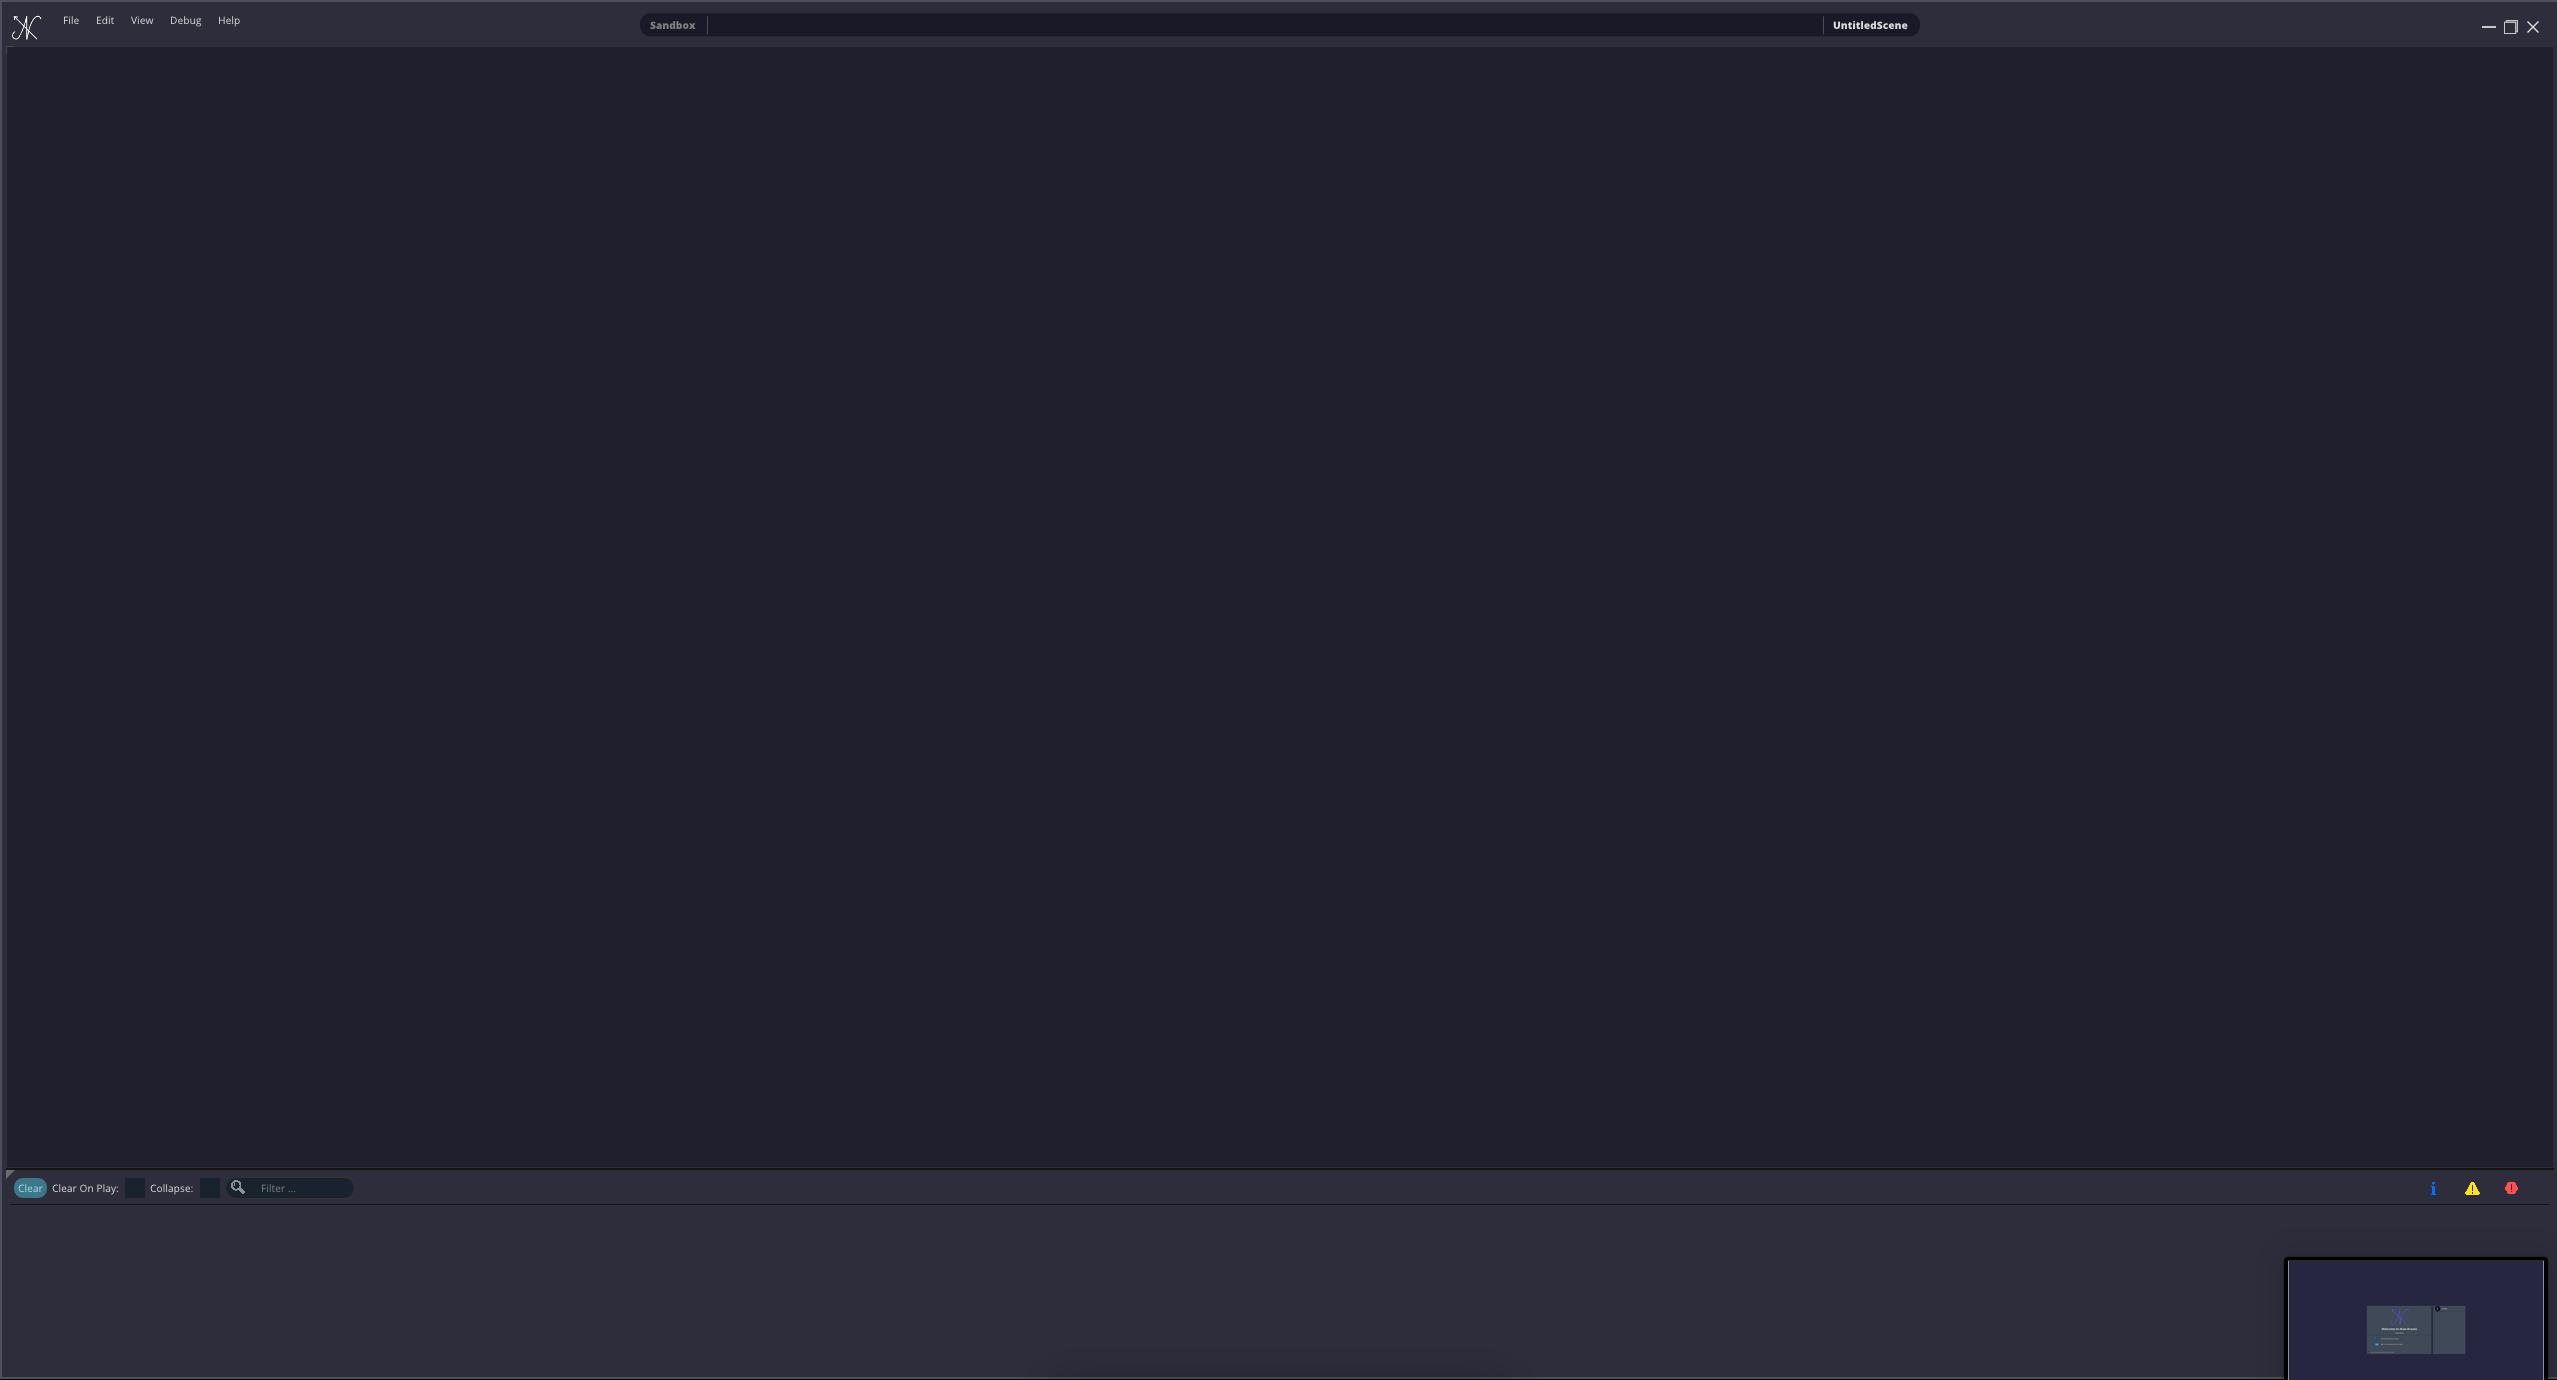
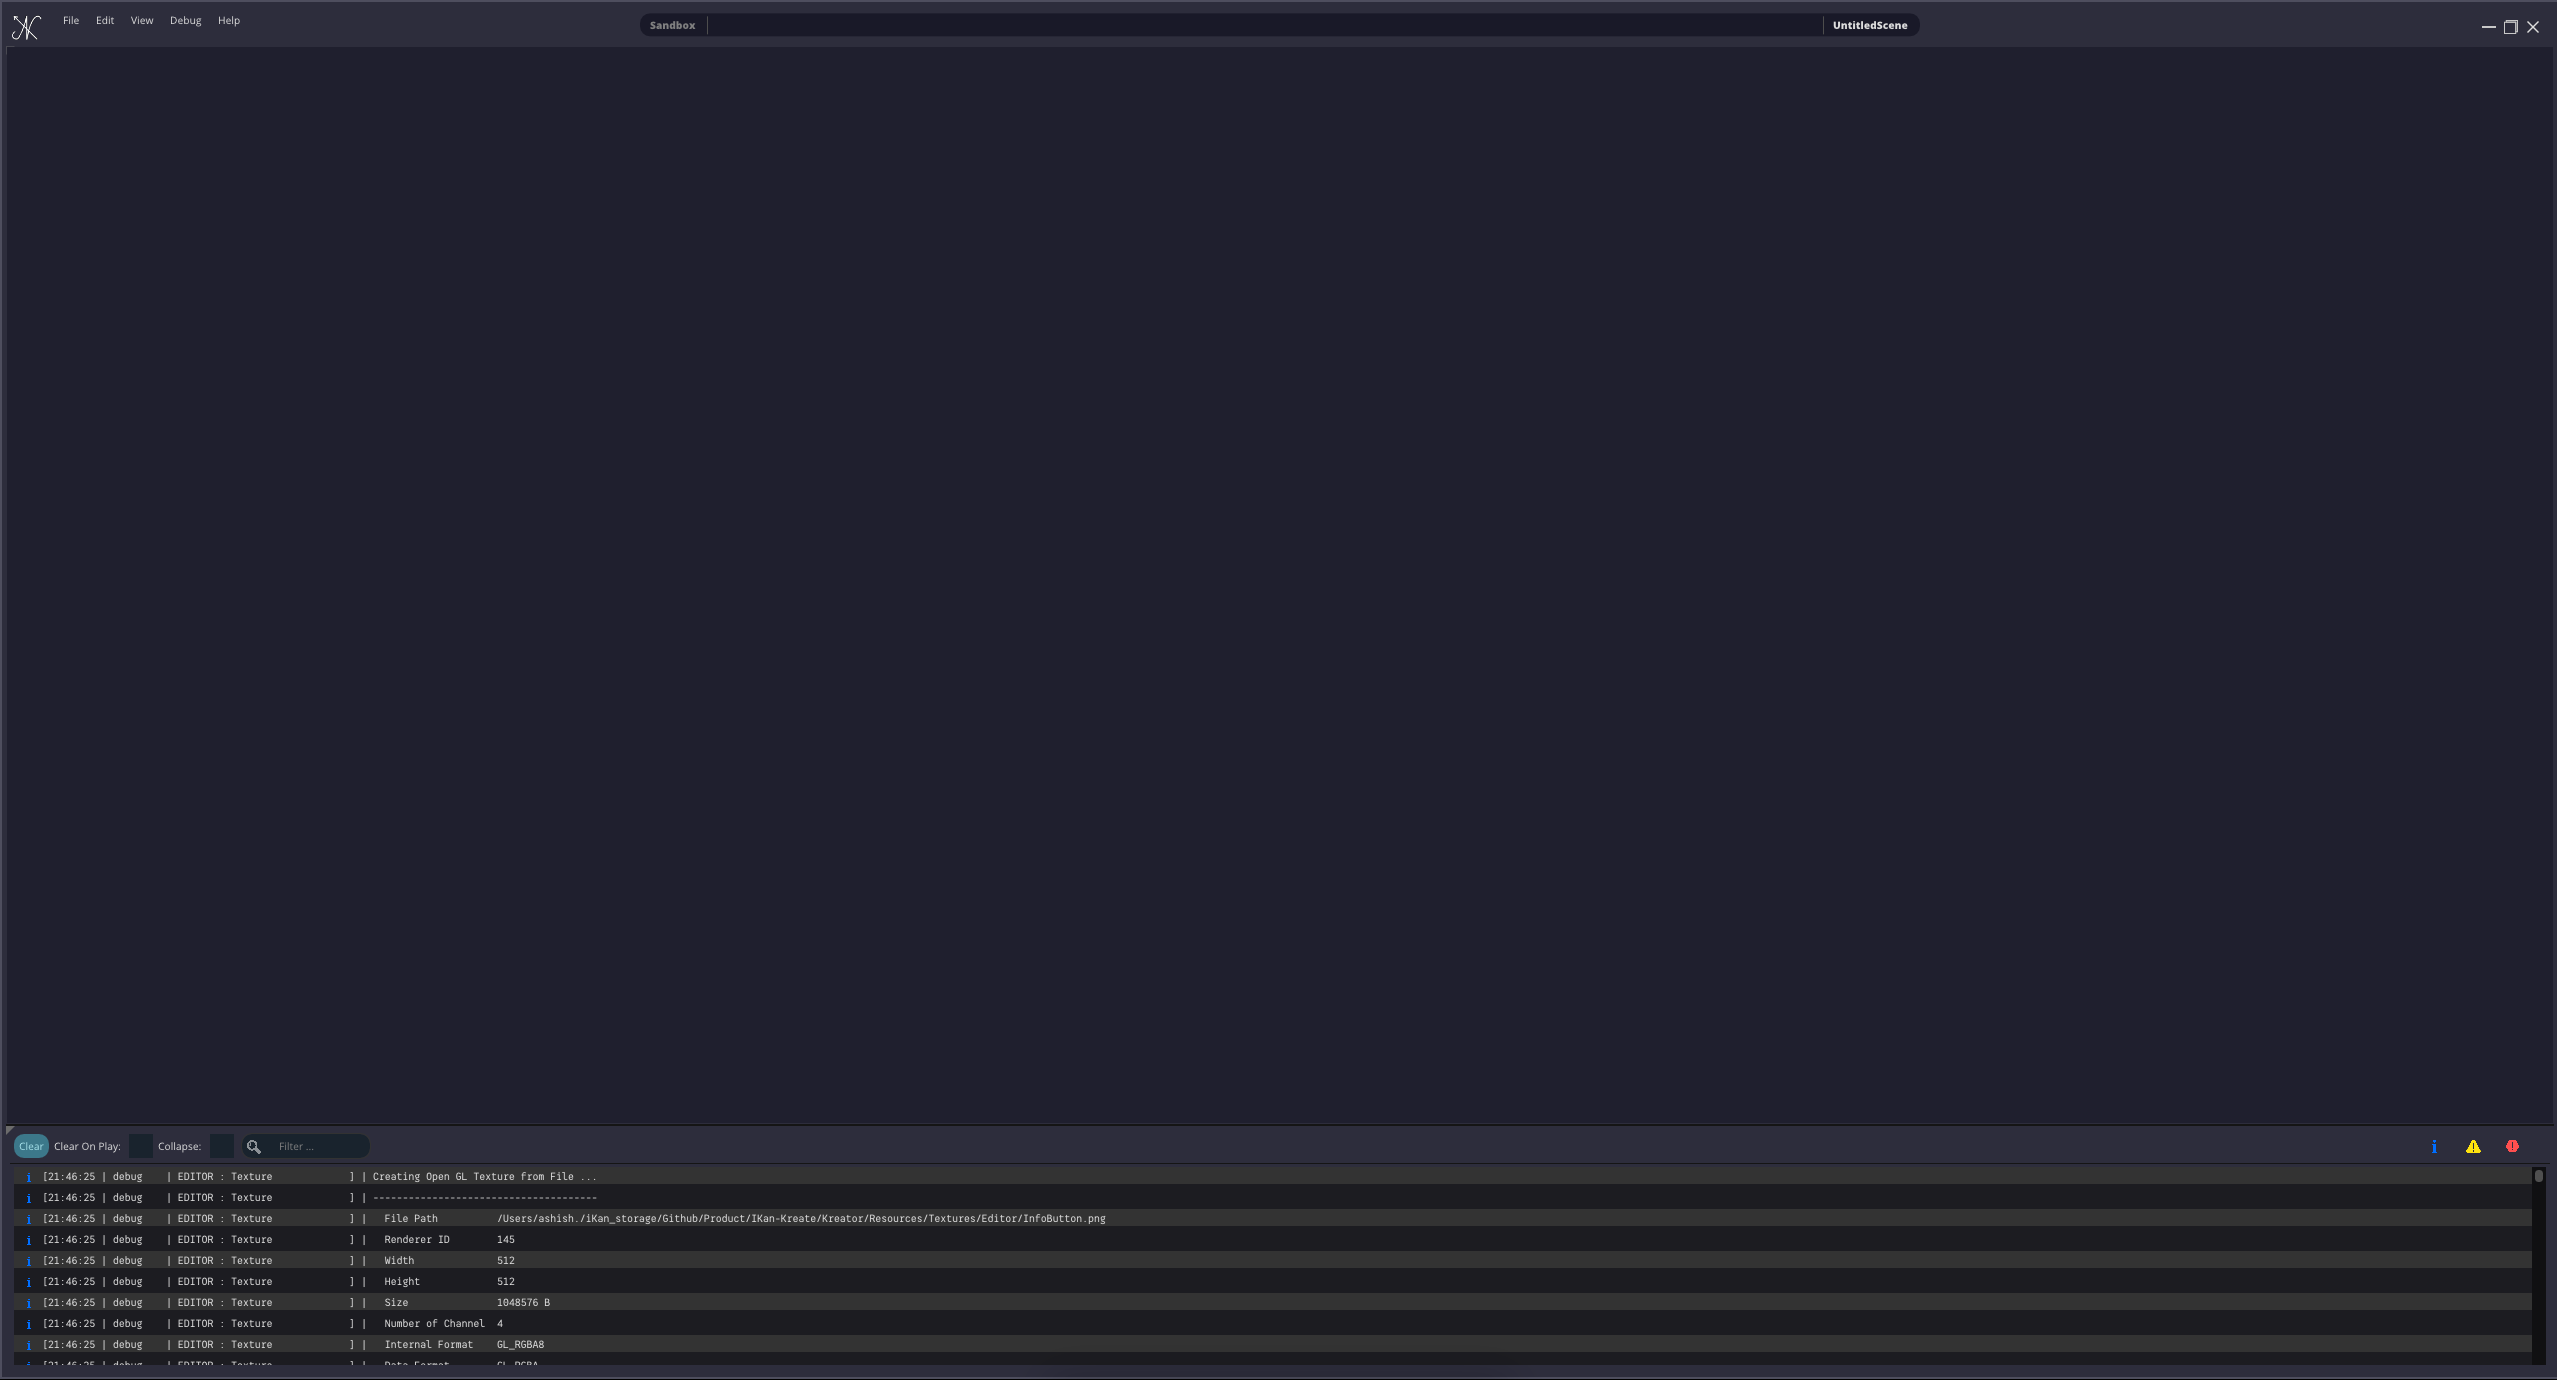
Completing Editor Console panel

Changed region(s): [[0.0, 0.8101, 1.0, 1.0]]

diff --git a/Kreator/Kreator/Panles/KreatorConsolePanel.cpp b/Kreator/Kreator/Panles/KreatorConsolePanel.cpp
@@ -39,11 +39,11 @@ namespace Kreator
     ImVec4 warningButtonTint = (m_messageFilters & (int16_t)ConsoleMessage::Category::Warning) ? s_warningButtonOnTint : s_noTint;
     ImVec4 errorButtonTint = (m_messageFilters & (int16_t)ConsoleMessage::Category::Error) ? s_errorButtonOnTint : s_noTint;
 
-    ImGui::PushStyleVar(ImGuiStyleVar_ItemSpacing, ImVec2(6, 5));
-    ImGui::PushStyleVar(ImGuiStyleVar_ItemInnerSpacing, ImVec2(5, 3));
-    ImGui::PushStyleColor(ImGuiCol_Button, ImVec4(0, 0, 0, 0));
-    ImGui::PushStyleColor(ImGuiCol_ButtonHovered, ImVec4(0.3f, 0.3f, 0.3f, 1.0f));
-    ImGui::PushStyleColor(ImGuiCol_ButtonActive, ImVec4(0, 0, 0, 0));
+    UI::ScopedColor button(ImGuiCol_Button, ImVec4(0, 0, 0, 0));
+    UI::ScopedColor buttonhovered(ImGuiCol_ButtonHovered, ImVec4(0.3f, 0.3f, 0.3f, 1.0f));
+    UI::ScopedColor buttonActive(ImGuiCol_ButtonActive, ImVec4(0, 0, 0, 0));
+
+    UI::ScopedStyle framePadding(ImGuiStyleVar_FramePadding, ImVec2(5, 5));
 
     if (UI::DrawRoundButton("Clear", Kreator_UI::ColorVec3FromU32(Kreator_UI::Color::NiceBlue), 10))
     {
@@ -88,12 +88,110 @@ namespace Kreator
     {
       m_messageFilters ^= (int16_t)ConsoleMessage::Category::Error;
     }
-
-    ImGui::PopStyleColor(3);
-    ImGui::PopStyleVar(2);
   }
   
   void KreatorConsolePanel::RenderConsole()
   {
+    UI::ScopedFont logFont(Kreator_UI::GetFixedWidthFont());
+    ImGui::BeginChild("LogMessages");
+
+    if (m_messageBufferBegin == 0)
+    {
+      m_displayMessageInspector = false;
+      m_selectedMessage = nullptr;
+    }
+    
+    if (ImGui::IsMouseClicked(ImGuiMouseButton_Left) and !m_isMessageInspectorHovered)
+    {
+      m_displayMessageInspector = false;
+      m_selectedMessage = nullptr;
+    }
+
+    for (uint32_t i = 0; i < m_messageBufferBegin; i++)
+    {
+      const auto& msg = m_messageBuffer[i];
+      // Copying to replace the content ...
+      std::string messageText = msg.GetMessage();
+      
+      // If search result passes
+      if (s_searchFilter.PassFilter(messageText.c_str()))
+      {
+        if (m_messageFilters & (int16_t)msg.GetCategory())
+        {
+          UI::ScopedStyle windowPadding(ImGuiStyleVar_WindowPadding, ImVec2(10, 5));
+          // Alternate color
+          if (i % 2 == 0)
+          {
+            ImGui::PushStyleColor(ImGuiCol_ChildBg, ImVec4(ImVec4(0.20f, 0.20f, 0.20f, 1.0f)));
+          }
+
+          ImGui::BeginChild(i + 1, ImVec2(0, ImGui::GetFontSize() * 1.75F), false,
+                            ImGuiWindowFlags_NoScrollWithMouse | ImGuiWindowFlags_NoScrollbar
+                            | ImGuiWindowFlags_AlwaysUseWindowPadding);
+          
+
+          // Selec the message to popout
+          if (ImGui::IsWindowHovered() and ImGui::IsMouseClicked(ImGuiMouseButton_Left))
+          {
+            m_selectedMessage = &m_messageBuffer[i];
+            m_displayMessageInspector = true;
+          }
+
+          // Right click popup
+          if (ImGui::BeginPopupContextWindow())
+          {
+            if (ImGui::MenuItem("Copy"))
+            {
+              ImGui::SetClipboardText(messageText.c_str());
+            }
+            ImGui::EndPopup();
+          }
+
+          // Render Icons
+          ImGuiContext& g = *GImGui;
+          auto size = g.FontSize;
+          if (msg.GetCategory() == ConsoleMessage::Category::Info)
+          {
+            UI::Image(m_infoButtonTex, ImVec2(size, size), ImVec2(0, 0), ImVec2(1, 1), s_infoButtonOnTint);
+          }
+          else if (msg.GetCategory() == ConsoleMessage::Category::Warning)
+          {
+            UI::Image(m_warningButtonTex, ImVec2(size, size), ImVec2(0, 0), ImVec2(1, 1), s_warningButtonOnTint);
+          }
+          else if (msg.GetCategory() == ConsoleMessage::Category::Error)
+          {
+            UI::Image(m_errorButtonTex, ImVec2(size, size), ImVec2(0, 0), ImVec2(1, 1), s_errorButtonOnTint);
+          }
+          
+          ImGui::SameLine();
+          // Add ... after 200 characters
+          if (messageText.length() > 200)
+          {
+            size_t spacePos = messageText.find_first_of(' ', 200);
+            if (spacePos != std::string::npos)
+            {
+              messageText.replace(spacePos, messageText.length() - 1, "...");
+            }
+          }
+          // Print Message
+          ImGui::TextUnformatted(messageText.c_str());
+          
+          if (m_collapseMessages and msg.GetCount() > 1)
+          {
+            ImGui::SameLine(ImGui::GetWindowWidth() - 30);
+            ImGui::Text("%d", msg.GetCount());
+          }
+
+          ImGui::EndChild();
+
+          // Pop Alternate color
+          if (i % 2 == 0)
+          {
+            ImGui::PopStyleColor();
+          }
+        }
+      }
+    }
+    ImGui::EndChild();
   }
 } // namespace Kreator

diff --git a/IKan/Interface/Editor/EditorConsolePanel.hpp b/IKan/Interface/Editor/EditorConsolePanel.hpp
@@ -27,11 +27,15 @@ namespace IKan
     virtual void OnImguiRender(bool& isOpen) override = 0;
     
   protected:
+    static constexpr uint32_t s_messageBufferCapacity = 1000;
+
     bool m_shouldClearOnPlay = false;
     bool m_collapseMessages = false;
 
     int32_t m_messageFilters;
     uint32_t m_messageBufferBegin = 0;
+
+    std::array<ConsoleMessage, s_messageBufferCapacity> m_messageBuffer;
 
   private:
     /// This function push the message for consol
@@ -39,11 +43,7 @@ namespace IKan
     static void PushMessage(const ConsoleMessage& message);
 
     // Member Variables ----------------------------------------------------------------------------------------------
-    static constexpr uint32_t s_messageBufferCapacity = 1000;
-
     bool m_newMessageAdded = false;
-
-    std::array<ConsoleMessage, s_messageBufferCapacity> m_messageBuffer;
 
     static EditorConsolePanel* s_instance;
     friend class EditorConsoleSink;

diff --git a/Kreator/Kreator/RendererLayer.cpp b/Kreator/Kreator/RendererLayer.cpp
@@ -176,8 +176,11 @@ if (!Project::GetActive()) return
     IK_LOG_TRACE("Kreator Layer", "Attaching Kreator Renderer Layer to application");
     
     // Adding Panels
-    m_panels.AddPanel<KreatorConsolePanel>(CONSOLE_PANEL_ID, "Editor Log", true);
 
+#ifdef DEBUG
+    m_panels.AddPanel<KreatorConsolePanel>(CONSOLE_PANEL_ID, "Editor Log", true);
+#endif
+    
     // Decorate the Theme
     UI::Font regularFontFilePath = {KreatorResourcePath("Fonts/Opensans/Regular.ttf"), 14};
     UI::Font boldFontFilePath = {KreatorResourcePath("Fonts/Opensans/ExtraBold.ttf"), 14};

diff --git a/Kreator/Kreator/Panles/KreatorConsolePanel.hpp b/Kreator/Kreator/Panles/KreatorConsolePanel.hpp
@@ -30,6 +30,10 @@ namespace Kreator
     void RenderConsole();
 
     // Member Variables ----------------------------------------------------------------------------------------------
+    bool m_displayMessageInspector = false;
+    bool m_isMessageInspectorHovered = false;
+    ConsoleMessage* m_selectedMessage = nullptr;
+
     Ref<Image> m_infoButtonTex, m_warningButtonTex, m_errorButtonTex;
     inline static ImGuiTextFilter s_searchFilter;
   };
